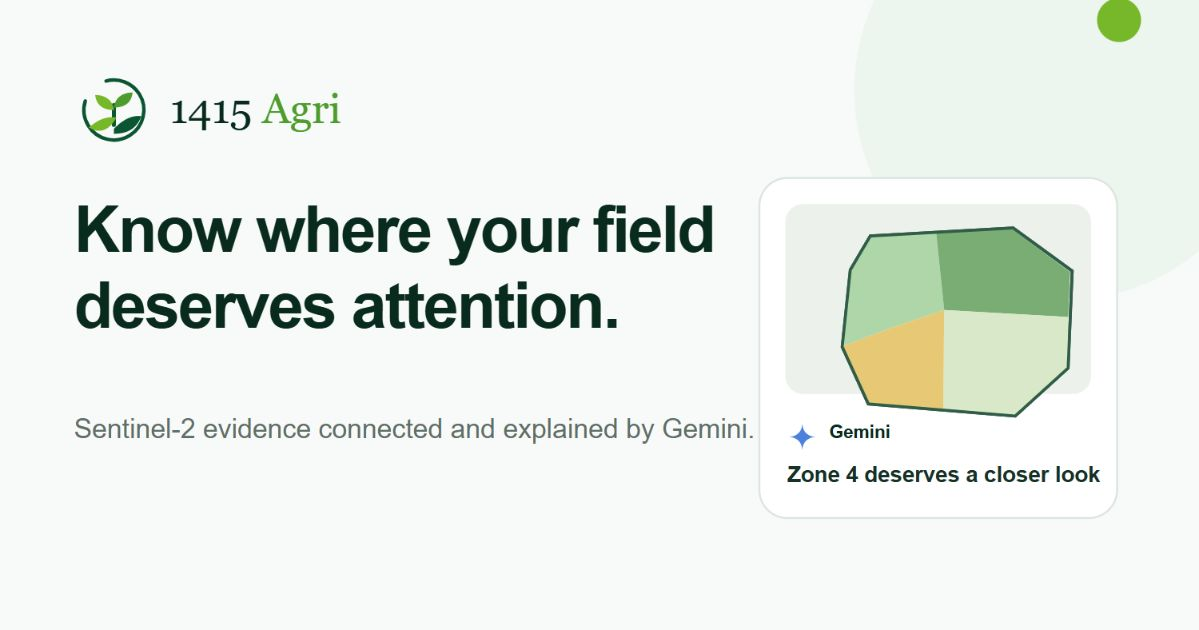
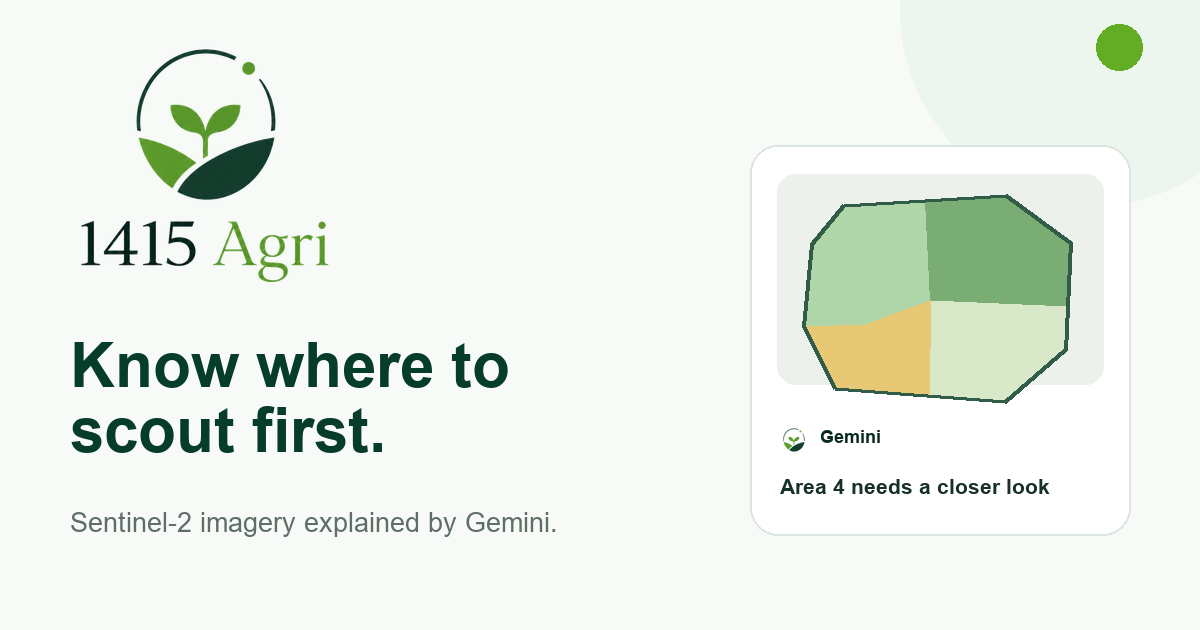
fix: restore the official 1415 Agri brand

diff --git a/templates/core/landing.html b/templates/core/landing.html
@@ -32,15 +32,7 @@
     <header class="landing-header" data-landing-header>
       <div class="landing-container landing-header-inner">
         <a class="landing-brand" href="#top" aria-label="{% translate '1415 Agri home' %}">
-          <svg class="landing-brand-mark" viewBox="0 0 44 44" aria-hidden="true">
-            <circle cx="22" cy="22" r="19" fill="none" stroke="currentColor" stroke-width="2.4" stroke-dasharray="76 16" transform="rotate(-32 22 22)" />
-            <path d="M21.9 29.4V19.1" fill="none" stroke="currentColor" stroke-width="2.6" stroke-linecap="round" />
-            <path d="M21.8 21.8c-5.7.1-8.8-2.7-9.5-7.4 5.3-.1 8.8 2.4 9.5 7.4Z" fill="currentColor" />
-            <path d="M22.1 20.2c5.6.1 8.6-2.7 9.3-7.2-5.2-.1-8.6 2.3-9.3 7.2Z" fill="currentColor" opacity=".78" />
-            <path d="M8.4 31.2c4.3-3.6 8.8-5.3 13.5-5.1-2.9 6.2-6.5 8.7-10.8 7.4" fill="currentColor" opacity=".72" />
-            <path d="M22.2 31.9c4.3-4.4 8.7-6.5 13.3-6.3-2.1 6.5-6.5 9.2-13.3 8.8" fill="currentColor" />
-          </svg>
-          <span class="landing-brand-name"><strong>1415</strong> Agri</span>
+          <img class="landing-brand-logo" src="{% static 'core/brand/1415-agri-logo.png' %}" alt="1415 Agri">
         </a>
 
         <button
@@ -114,7 +106,7 @@
           <div class="product-preview" aria-label="{% translate '1415 Agri analysis preview showing crop variability and a Gemini explanation' %}">
             <div class="product-preview-bar">
               <div class="product-preview-brand">
-                <span class="product-preview-logo" aria-hidden="true"></span>
+                <img class="product-preview-logo" src="{% static 'core/brand/1415-agri-mark.png' %}" alt="">
                 <strong>1415 Agri</strong>
               </div>
               <span class="product-preview-status"><span aria-hidden="true"></span>{% translate "Analysis complete" %}</span>
@@ -455,15 +447,7 @@
         <div class="landing-footer-main">
           <div class="landing-footer-brand">
             <a class="landing-brand landing-brand-footer" href="#top">
-              <svg class="landing-brand-mark" viewBox="0 0 44 44" aria-hidden="true">
-                <circle cx="22" cy="22" r="19" fill="none" stroke="currentColor" stroke-width="2.4" stroke-dasharray="76 16" transform="rotate(-32 22 22)" />
-                <path d="M21.9 29.4V19.1" fill="none" stroke="currentColor" stroke-width="2.6" stroke-linecap="round" />
-                <path d="M21.8 21.8c-5.7.1-8.8-2.7-9.5-7.4 5.3-.1 8.8 2.4 9.5 7.4Z" fill="currentColor" />
-                <path d="M22.1 20.2c5.6.1 8.6-2.7 9.3-7.2-5.2-.1-8.6 2.3-9.3 7.2Z" fill="currentColor" opacity=".78" />
-                <path d="M8.4 31.2c4.3-3.6 8.8-5.3 13.5-5.1-2.9 6.2-6.5 8.7-10.8 7.4" fill="currentColor" opacity=".72" />
-                <path d="M22.2 31.9c4.3-4.4 8.7-6.5 13.3-6.3-2.1 6.5-6.5 9.2-13.3 8.8" fill="currentColor" />
-              </svg>
-              <span class="landing-brand-name"><strong>1415</strong> Agri</span>
+              <img class="landing-brand-logo landing-brand-logo-footer" src="{% static 'core/brand/1415-agri-logo.png' %}" alt="1415 Agri">
             </a>
             <p>{% translate "Clear satellite insights for growers." %}</p>
           </div>

diff --git a/core/static/core/landing.css b/core/static/core/landing.css
@@ -109,28 +109,15 @@ body > .page-shell {
   display: inline-flex;
   flex: 0 0 auto;
   align-items: center;
-  gap: 9px;
   color: var(--landing-green-dark) !important;
   text-decoration: none;
 }
 
-.landing-brand-mark {
-  width: 38px;
-  height: 38px;
-  overflow: visible;
-}
-
-.landing-brand-name {
-  color: var(--landing-green);
-  font-family: Georgia, "Times New Roman", serif;
-  font-size: 24px;
-  line-height: 1;
-  letter-spacing: -0.04em;
-}
-
-.landing-brand-name strong {
-  color: var(--landing-ink-strong);
-  font-weight: 500;
+.landing-brand-logo {
+  width: auto;
+  height: 62px;
+  display: block;
+  object-fit: contain;
 }
 
 .landing-nav-menu,
@@ -429,22 +416,8 @@ body > .page-shell {
 .product-preview-logo {
   width: 19px;
   height: 19px;
-  position: relative;
-  display: inline-block;
-  border: 1.6px solid var(--landing-green);
-  border-radius: 50%;
-}
-
-.product-preview-logo::before {
-  position: absolute;
-  width: 8px;
-  height: 5px;
-  top: 5px;
-  left: 5px;
-  border-radius: 100% 0 100% 0;
-  background: var(--landing-green);
-  content: "";
-  transform: rotate(-18deg);
+  display: block;
+  object-fit: contain;
 }
 
 .product-preview-status span {
@@ -1605,6 +1578,10 @@ body > .page-shell {
   width: fit-content;
 }
 
+.landing-brand-logo-footer {
+  height: 148px;
+}
+
 .landing-footer-brand > p {
   max-width: 310px;
   margin: 20px 0 0;
@@ -1832,13 +1809,12 @@ body > .page-shell {
     min-height: 68px;
   }
 
-  .landing-brand-mark {
-    width: 34px;
-    height: 34px;
+  .landing-brand-logo {
+    height: 54px;
   }
 
-  .landing-brand-name {
-    font-size: 22px;
+  .landing-brand-logo-footer {
+    height: 112px;
   }
 
   .landing-section {

diff --git a/templates/base.html b/templates/base.html
@@ -7,15 +7,15 @@
     <meta name="viewport" content="width=device-width, initial-scale=1">
     <meta name="color-scheme" content="light">
     <title>{% block title %}{{ PRODUCT_NAME }}{% endblock %}</title>
-    <link rel="icon" href="{% static 'core/brand/favicon.svg' %}" type="image/svg+xml">
+    <link rel="icon" href="{% static 'core/brand/favicon.png' %}" type="image/png">
+    <link rel="apple-touch-icon" href="{% static 'core/brand/apple-touch-icon.png' %}">
     <link rel="stylesheet" href="{% static 'core/styles.css' %}">
     {% block extra_head %}{% endblock %}
   </head>
   <body>
     <header class="site-header">
       <a class="brand" href="{% url 'home' %}">
-        <span class="brand-mark" aria-hidden="true">A</span>
-        <span>{{ PRODUCT_NAME }}</span>
+        <img class="brand-logo" src="{% static 'core/brand/1415-agri-logo.png' %}" alt="{{ PRODUCT_NAME }}">
       </a>
       <form class="language-switcher" action="{% url 'set_language' %}" method="post">
         {% csrf_token %}

diff --git a/core/static/core/styles.css b/core/static/core/styles.css
@@ -54,20 +54,15 @@ a {
 .brand {
   display: inline-flex;
   align-items: center;
-  gap: 0.75rem;
   color: var(--ink);
-  font-weight: 750;
   text-decoration: none;
 }
 
-.brand-mark {
-  width: 2rem;
-  height: 2rem;
-  display: grid;
-  place-items: center;
-  border-radius: 0.7rem 0.7rem 0.25rem;
-  color: white;
-  background: var(--brand);
+.brand-logo {
+  width: auto;
+  height: 4.25rem;
+  display: block;
+  object-fit: contain;
 }
 
 .language-switcher {

diff --git a/tests/test_landing.py b/tests/test_landing.py
@@ -1,3 +1,4 @@
+import hashlib
 from pathlib import Path
 
 from django.urls import reverse
@@ -66,6 +67,22 @@ def test_landing_contact_form_has_server_backed_controls(client):
 def test_brand_assets_are_versioned_with_the_application():
     brand = ROOT / "core" / "static" / "core" / "brand"
 
-    assert (brand / "favicon.svg").stat().st_size > 100
-    assert (brand / "og-card.svg").stat().st_size > 500
+    source = brand / "1415-agri-logo-source.jpg"
+    assert hashlib.sha256(source.read_bytes()).hexdigest() == (
[1 lines of base64/hex data omitted]
+    )
+    assert (brand / "1415-agri-logo.png").stat().st_size > 50_000
+    assert (brand / "1415-agri-mark.png").stat().st_size > 25_000
+    assert (brand / "favicon.png").stat().st_size > 5_000
+    assert (brand / "apple-touch-icon.png").stat().st_size > 5_000
     assert (brand / "og-card.png").stat().st_size > 10_000
+
+
+def test_official_brand_assets_are_used_in_every_logo_placement(client):
+    content = client.get(reverse("home")).content.decode()
+    landing_css = (ROOT / "core" / "static" / "core" / "landing.css").read_text(encoding="utf-8")
+
+    assert content.count("core/brand/1415-agri-logo") == 3
+    assert content.count("core/brand/1415-agri-mark") == 1
+    assert "landing-brand-mark" not in content
+    assert "product-preview-logo::before" not in landing_css
